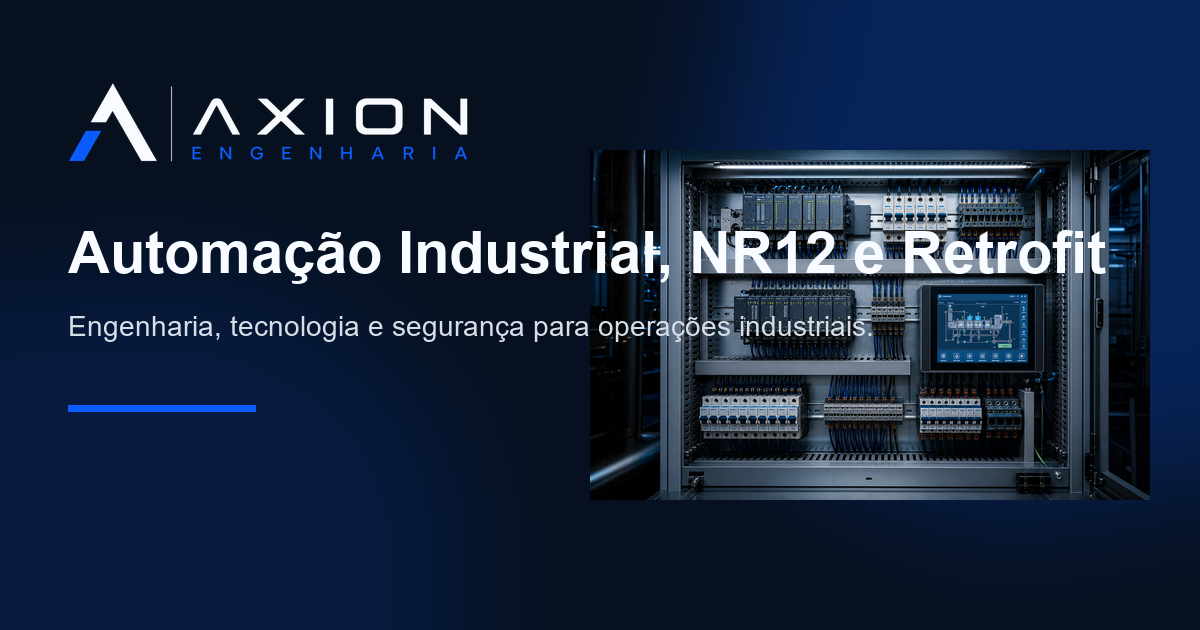
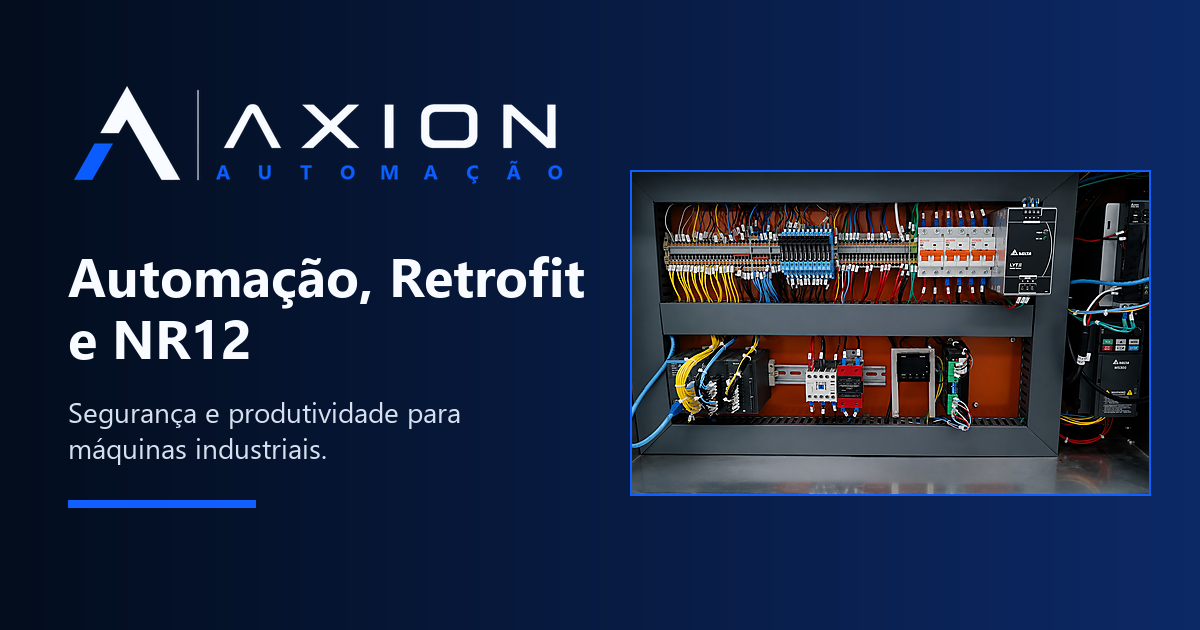
Update Axion Automacao branding

diff --git a/index.html b/index.html
@@ -3,34 +3,36 @@
   <head>
     <meta charset="utf-8" />
     <meta name="viewport" content="width=device-width, initial-scale=1" />
-    <title>Axion Engenharia | Automação Industrial, NR12 e Retrofit</title>
+    <title>Axion Automação Industrial | Automação Industrial, NR12 e Retrofit</title>
     <meta
       name="description"
       content="Automação industrial, retrofit elétrico, adequações NR12/NR10, painéis elétricos e software para CLP e IHM em Atibaia/SP."
     />
     <meta name="theme-color" content="#06101f" />
-    <meta property="og:title" content="Axion Engenharia" />
+    <link rel="canonical" href="https://www.axionautomacao.ind.br/" />
+    <meta property="og:title" content="Axion Automação Industrial" />
     <meta
       property="og:description"
       content="Automação industrial, retrofit elétrico, adequações NR12/NR10, painéis elétricos e software para CLP e IHM em Atibaia/SP."
     />
     <meta property="og:type" content="website" />
-    <meta property="og:image" content="social-preview.png" />
+    <meta property="og:url" content="https://www.axionautomacao.ind.br/" />
+    <meta property="og:image" content="https://www.axionautomacao.ind.br/social-preview.png" />
     <meta name="twitter:card" content="summary_large_image" />
-    <meta name="twitter:title" content="Axion Engenharia" />
+    <meta name="twitter:title" content="Axion Automação Industrial" />
     <meta
       name="twitter:description"
       content="Automação industrial, retrofit elétrico, adequações NR12/NR10, painéis elétricos e software para CLP e IHM em Atibaia/SP."
     />
-    <meta name="twitter:image" content="social-preview.png" />
+    <meta name="twitter:image" content="https://www.axionautomacao.ind.br/social-preview.png" />
     <link rel="icon" href="favicon.ico?v=4" sizes="any" />
     <link rel="icon" href="favicon.png?v=4" type="image/png" />
     <link rel="stylesheet" href="styles.css" />
   </head>
   <body>
     <header class="site-header">
-      <a class="brand" href="#inicio" aria-label="Axion Engenharia">
-        <img src="assets/axion/logo-axion-pdf-invertido.png" alt="Axion Engenharia" />
+      <a class="brand" href="#inicio" aria-label="Axion Automação Industrial">
+        <img src="assets/axion/logo-axion-pdf-invertido.png" alt="Axion Automação Industrial" />
       </a>
       <nav class="nav" aria-label="Navegação principal">
         <a href="#servicos">Serviços</a>
@@ -40,7 +42,7 @@
         <a href="#cases">Cases</a>
         <a href="#contato">Contato</a>
       </nav>
-      <a class="header-action" href="https://wa.me/5511989774997?text=Ol%C3%A1%2C%20vim%20pelo%20site%20da%20Axion%20Engenharia%20e%20gostaria%20de%20solicitar%20uma%20an%C3%A1lise%20t%C3%A9cnica." target="_blank" rel="noreferrer">Solicitar análise</a>
+      <a class="header-action" href="https://wa.me/5511989774997?text=Ol%C3%A1%2C%20vim%20pelo%20site%20da%20Axion%20Automa%C3%A7%C3%A3o%20Industrial%20e%20gostaria%20de%20solicitar%20uma%20an%C3%A1lise%20t%C3%A9cnica." target="_blank" rel="noreferrer">Solicitar análise</a>
     </header>
 
     <main id="inicio">
@@ -53,8 +55,8 @@
         <div class="hero-shade"></div>
         <div class="hero-content split">
           <div>
-            <p class="pill">Engenharia Industrial Moderna</p>
-            <h1>Atualizamos sistemas industriais com engenharia, tecnologia e segurança</h1>
+            <p class="pill">Automação e Segurança Industrial</p>
+            <h1>Atualizamos sistemas industriais com automação, tecnologia e segurança</h1>
             <p class="hero-subtitle">
               Integração, atualização e desenvolvimento de sistemas industriais para operações
               mais seguras e eficientes.
@@ -150,9 +152,9 @@
             </div>
           </div>
           <div class="focus-card">
-            <h3>Engenharia aplicada à realidade industrial</h3>
+            <h3>Automação aplicada à realidade industrial</h3>
             <p>
-              A Axion Engenharia desenvolve soluções para atualização, segurança e
+              A Axion Automação Industrial desenvolve soluções para atualização, segurança e
               modernização industrial com foco técnico e operacional.
             </p>
             <blockquote>
@@ -167,7 +169,7 @@
       <section id="diferenciais" class="section-pad section">
         <div class="section-heading">
           <p class="eyebrow">Diferenciais</p>
-          <h2>Engenharia moderna com foco operacional.</h2>
+          <h2>Automação e segurança com foco operacional.</h2>
         </div>
         <div class="differential-grid">
           <article>
@@ -272,11 +274,11 @@
       <section class="about section-pad">
         <div>
           <p class="eyebrow">Sobre a Axion</p>
-          <h2>Engenharia industrial aplicada a máquina real.</h2>
+          <h2>Automação industrial aplicada a máquina real.</h2>
         </div>
         <div class="about-text">
           <p>
-            A Axion Engenharia atua no desenvolvimento e modernização de sistemas industriais,
+            A Axion Automação Industrial atua no desenvolvimento e modernização de sistemas industriais,
             oferecendo soluções em automação, retrofit elétrico, adequações NR12/NR10,
             painéis elétricos e desenvolvimento de software industrial.
           </p>
@@ -298,16 +300,16 @@
           </p>
           <div class="contact-actions">
             <a class="primary-button" href="https://wa.me/5511989774997?text=Ol%C3%A1%2C%20gostaria%20de%20falar%20com%20um%20especialista%20da%20Axion%20sobre%20uma%20solu%C3%A7%C3%A3o%20industrial." target="_blank" rel="noreferrer">Falar com especialista</a>
-            <a class="secondary-button" href="mailto:joao.araujo@axionengenharia.ind.br">Enviar e-mail</a>
+            <a class="secondary-button" href="mailto:joao.araujo@axionautomacao.ind.br">Enviar e-mail</a>
           </div>
           <div class="contact-list">
             <p><strong>Endereço:</strong><br />Av. Dom Pedro II, 505 - Atibaia/SP</p>
-            <p><strong>E-mail:</strong><br />joao.araujo@axionengenharia.ind.br</p>
+            <p><strong>E-mail:</strong><br />joao.araujo@axionautomacao.ind.br</p>
             <p><strong>WhatsApp:</strong><br />(11) 98977-4997</p>
-            <p><strong>Instagram:</strong><br /><a href="https://www.instagram.com/axionengenhariaindustrial/" target="_blank" rel="noreferrer">@axionengenhariaindustrial</a></p>
+            <p><strong>Instagram:</strong><br /><a href="https://www.instagram.com/axionautomacaoindustrial/" target="_blank" rel="noreferrer">@axionautomacaoindustrial</a></p>
           </div>
         </div>
-        <div class="map-wrap" aria-label="Mapa do endereço da Axion Engenharia">
+        <div class="map-wrap" aria-label="Mapa do endereço da Axion Automação Industrial">
           <iframe
             title="Mapa - Av. Dom Pedro II, 505, Atibaia SP"
             loading="lazy"
@@ -319,7 +321,7 @@
     </main>
 
     <footer class="footer">
-      <img src="assets/axion/logo-axion-pdf-invertido.png" alt="Axion Engenharia" />
+      <img src="assets/axion/logo-axion-pdf-invertido.png" alt="Axion Automação Industrial" />
       <span>Automação Industrial - Retrofit - NR12 - Software Industrial</span>
     </footer>
   </body>

diff --git a/README.md b/README.md
@@ -1,4 +1,4 @@
-# Axion Engenharia - Site Estático
+# Axion Automação Industrial - Site Estático
 
 Site institucional estático pronto para publicação na Vercel.
 
@@ -14,6 +14,6 @@ Site institucional estático pronto para publicação na Vercel.
 ## Contato configurado
 
 - WhatsApp: (11) 98977-4997
-- E-mail: joao.araujo@axionengenharia.ind.br
-- Instagram: @axionengenhariaindustrial
+- E-mail: joao.araujo@axionautomacao.ind.br
+- Instagram: @axionautomacaoindustrial
 - Endereço: Av. Dom Pedro II, 505 - Atibaia/SP
